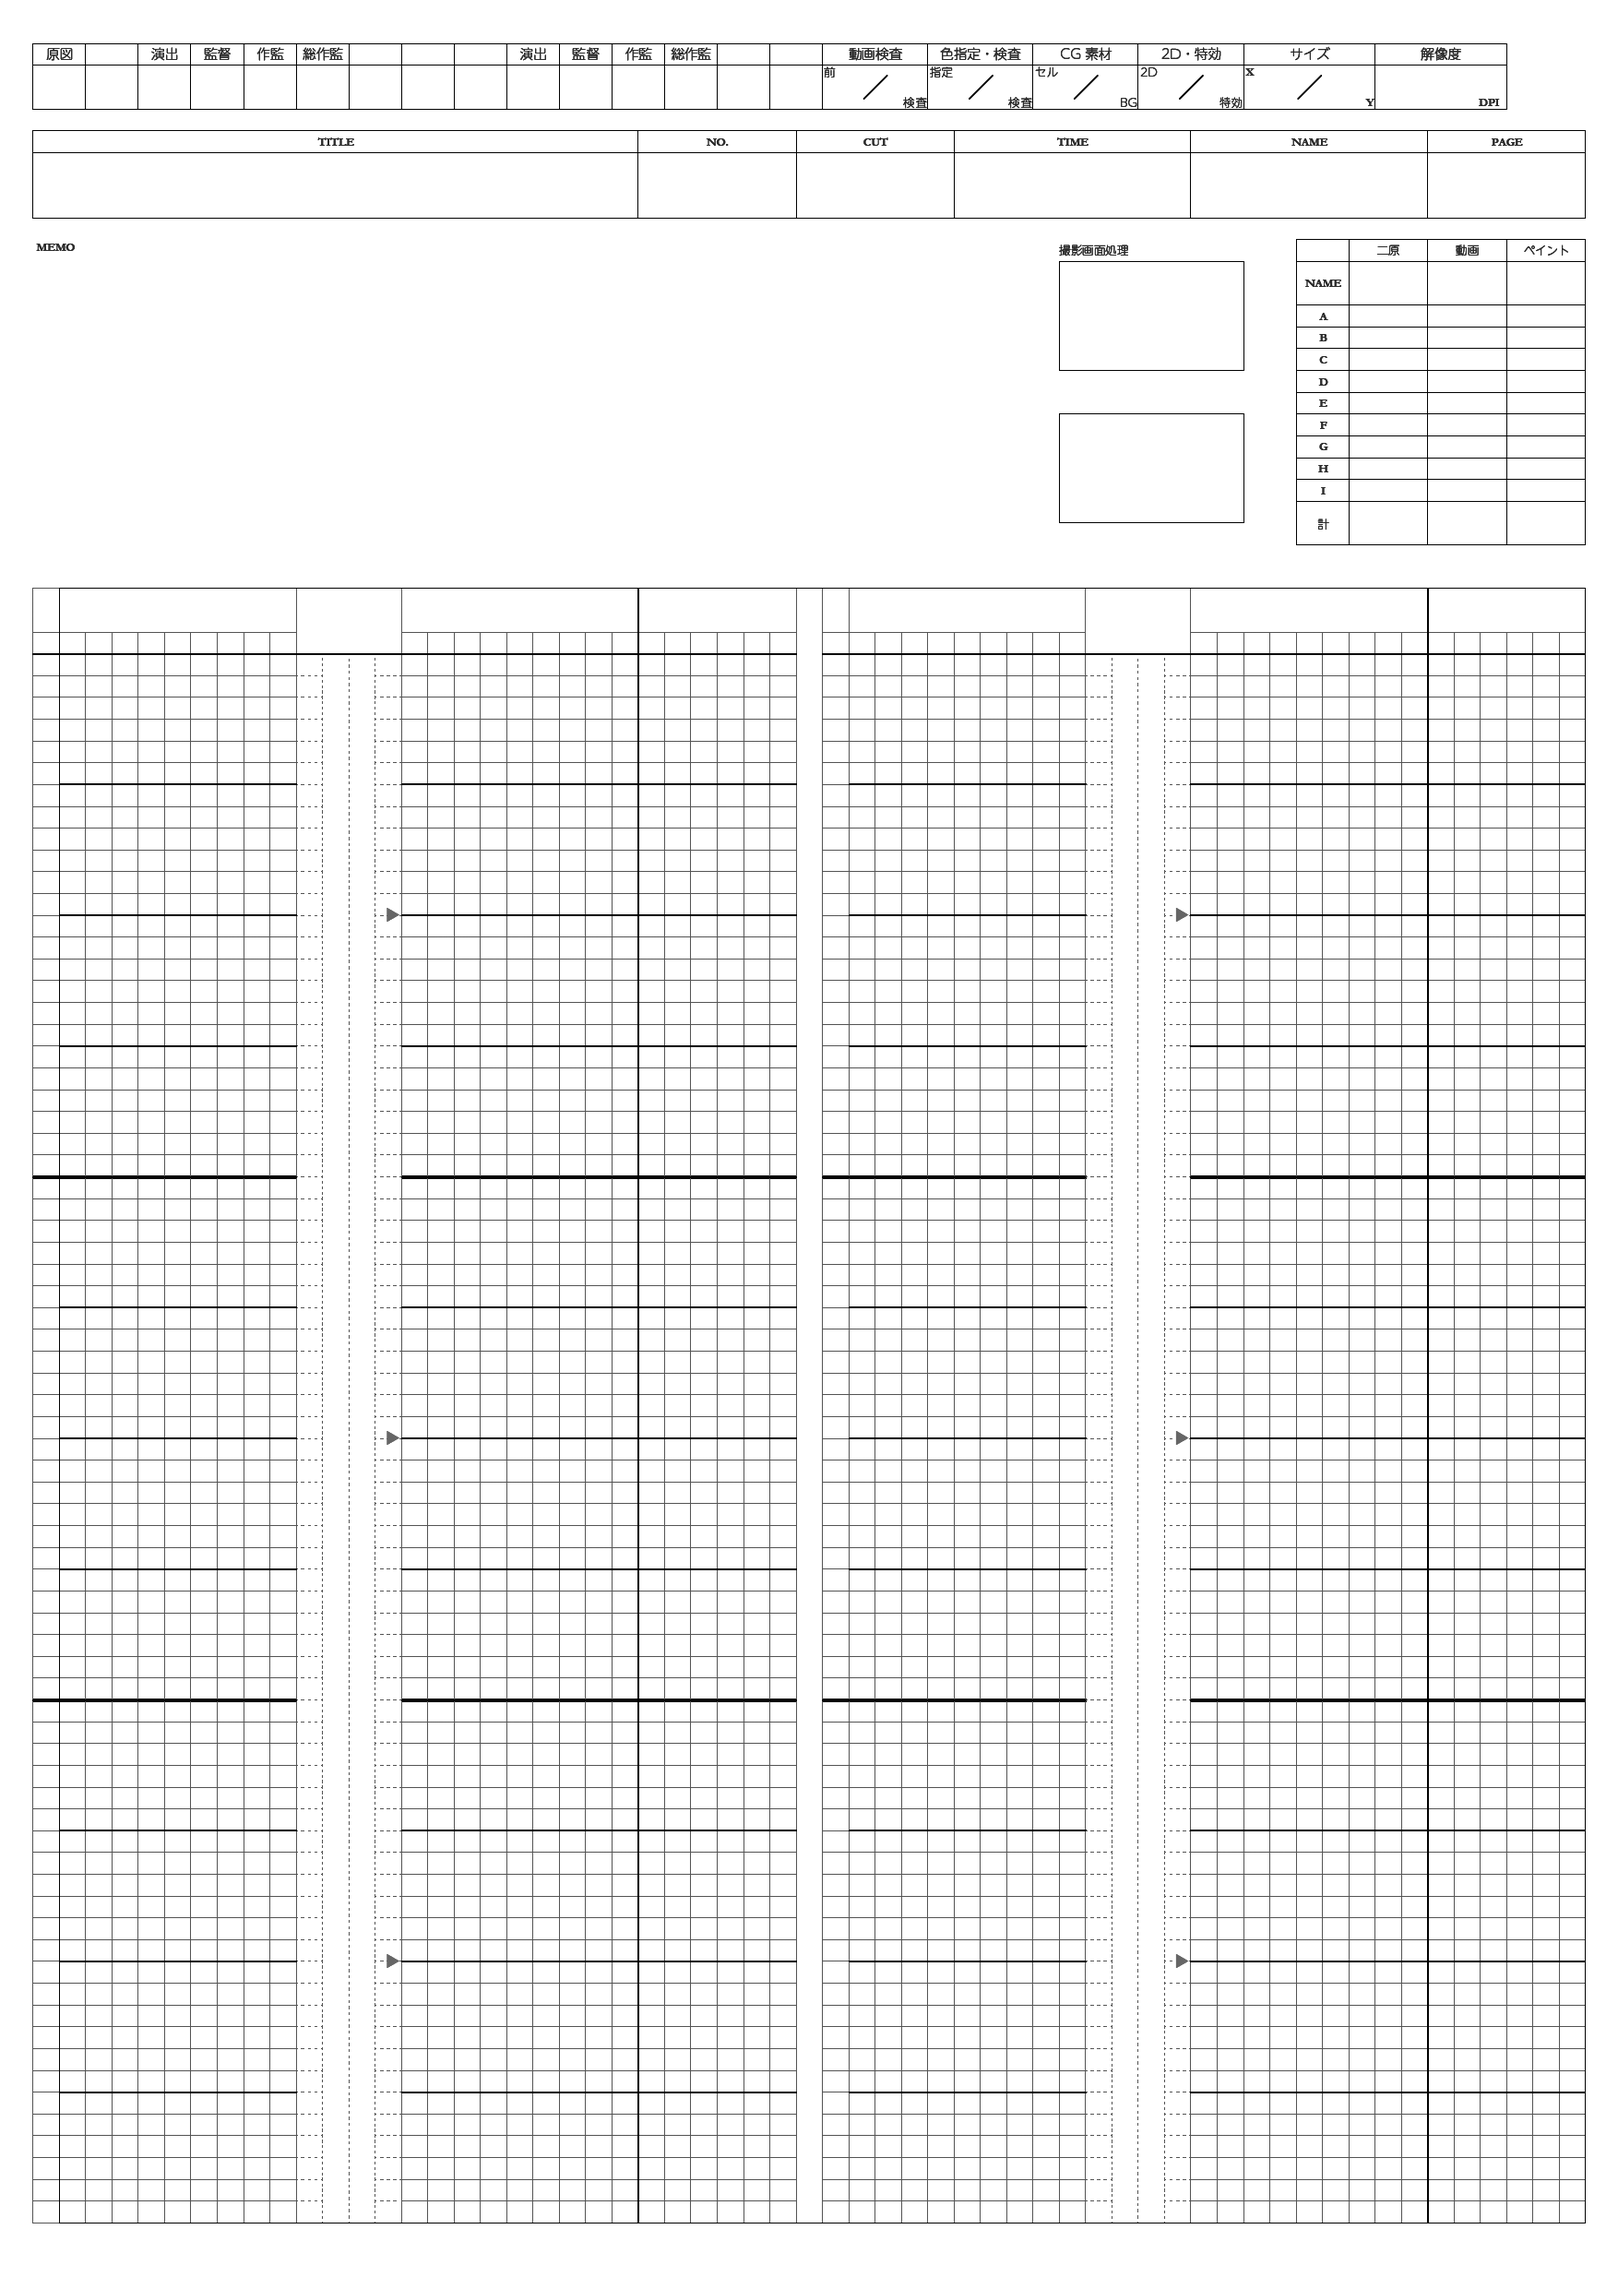
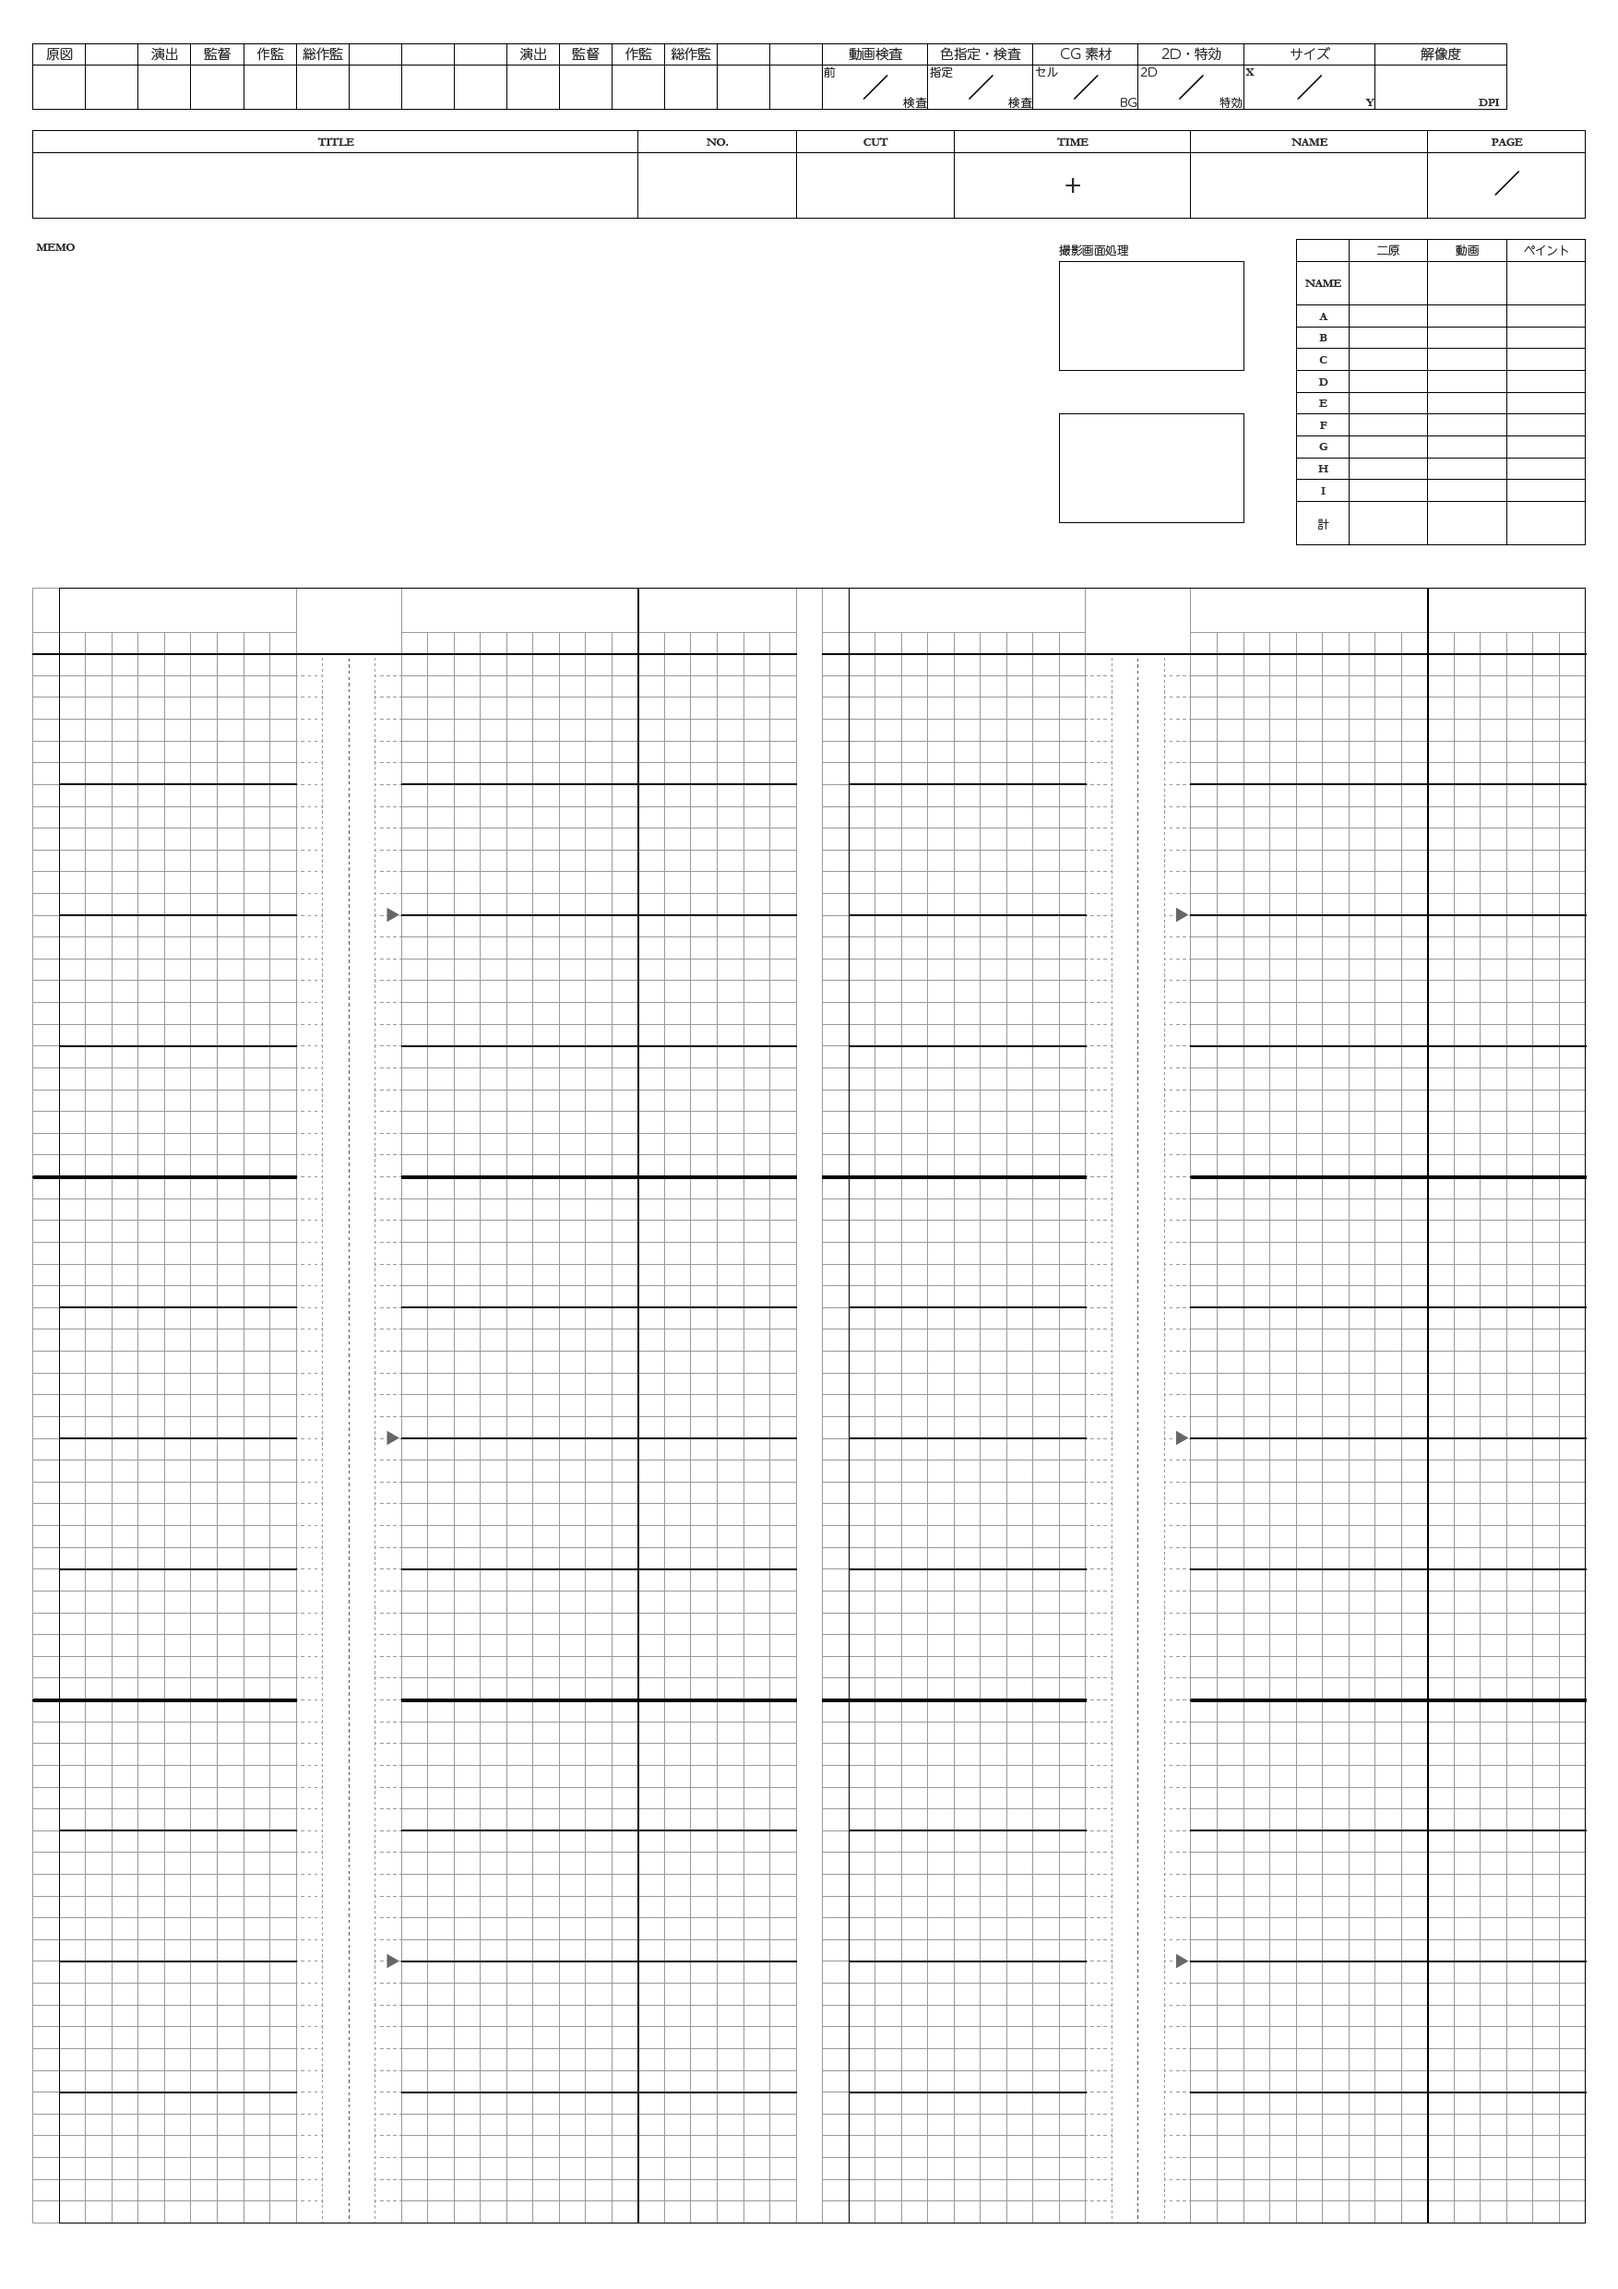
Replace the standard A3 timesheet and preserve thin rules during correction

diff --git a/packages/ui/src/sheet-precision-ink.ts b/packages/ui/src/sheet-precision-ink.ts
@@ -87,16 +87,18 @@ export function precisionGuideInk(
       hh,
     )
     const pixels = ctx!.getImageData(0, 0, w, hh).data
-    const gray = new Uint8Array(w * hh)
-    for (let i = 0; i < gray.length; i++) {
-      gray[i] = Math.round(pixels[4 * i] * 0.299 + pixels[4 * i + 1] * 0.587 + pixels[4 * i + 2] * 0.114)
+    // Measure ink before interpolation so a thin rule retains its signal between projected pixels.
+    const ink = new Uint8Array(w * hh)
+    for (let i = 0; i < ink.length; i++) {
+      const luminance = Math.round(pixels[4 * i] * 0.299 + pixels[4 * i + 1] * 0.587 + pixels[4 * i + 2] * 0.114)
+      ink[i] = Math.round(Math.max(0, Math.min(255, (205 - luminance) * 1.55)))
     }
     for (let y = top; y < bottom; y++) {
       const v = (y + 0.5) / height
       for (let x = left; x < right; x++) {
-        let light: number
+        let sample: number
         if (identity) {
-          light = gray[(y - y0) * w + x - x0]
+          sample = ink[(y - y0) * w + x - x0]
         } else {
           const u = (x + 0.5) / width,
             den = h[6] * u + h[7] * v + h[8]
@@ -112,11 +114,11 @@ export function precisionGuideInk(
           const k = iy * w + ix,
             n = iy * w + Math.min(w - 1, ix + 1),
             below = iy + 1 < hh ? w : 0
-          const upper = gray[k] + fx * (gray[n] - gray[k])
-          const lower = gray[k + below] + fx * (gray[n + below] - gray[k + below])
-          light = upper + fy * (lower - upper)
+          const upper = ink[k] + fx * (ink[n] - ink[k])
+          const lower = ink[k + below] + fx * (ink[n + below] - ink[k + below])
+          sample = upper + fy * (lower - upper)
         }
-        darkness[y * width + x] = Math.round(Math.max(0, Math.min(255, (205 - light) * 1.55)))
+        darkness[y * width + x] = Math.round(sample)
       }
     }
   }

diff --git a/tools/e2e/canvaskit/sheet-registration.spec.ts b/tools/e2e/canvaskit/sheet-registration.spec.ts
@@ -6,11 +6,14 @@ test('Remap registers an imported paper page through its calibration loupe', asy
   await page.getByLabel('表示設定', { exact: true }).click()
   await page.getByRole('button', { name: 'A3標準', exact: true }).click()
   await page.keyboard.press('Escape')
-  const asset = await page.request.get('./' + standardA3SheetTemplate.defaultUnderlay!.assetPath)
+  const underlay = standardA3SheetTemplate.defaultUnderlay!
+  const asset = await page.request.get('./' + underlay.assetPath)
   expect(asset.ok()).toBe(true)
+  const buffer = await asset.body()
+  expect(buffer.byteLength).toBe(underlay.imageRef.size)
   await page.locator('summary[aria-label="紙シート"]').click()
   const menu = page.locator('.paperSheetRailMenu.actionMenuPortalContent')
-  await menu.locator('input[type=file]').setInputFiles({ name: 'registered_sheet.png', mimeType: 'image/png', buffer: await asset.body() })
+  await menu.locator('input[type=file]').setInputFiles({ name: 'registered_sheet.png', mimeType: 'image/png', buffer })
   await expect(menu.getByRole('combobox', { name: '1ページの紙シート画像' })).toHaveValue(/.+/)
   await expect(menu.getByRole('option', { name: /registered_sheet.png/ })).toBeAttached()
   await menu.getByRole('button', { name: 'シート画像補正', exact: true }).click()

diff --git a/packages/core/src/sheet-template-presets.ts b/packages/core/src/sheet-template-presets.ts
@@ -214,7 +214,7 @@ export const standardA3DefaultUnderlay: SheetTemplateUnderlay = {
   assetPath: 'templates/standard-a3/timesheet.png',
   imageRef: {
     name: 'timesheet.png',
-    size: 153481,
+    size: 179070,
     assetPath: 'templates/standard-a3/timesheet.png',
     pixelWidth: STANDARD_A3_PAGE_WIDTH_PX,
     pixelHeight: STANDARD_A3_PAGE_HEIGHT_PX,

diff --git a/packages/ui/src/appVersion.ts b/packages/ui/src/appVersion.ts
@@ -1,2 +1,2 @@
 // Generated by tools/version/sync-version.mjs from VERSION_BASE, BUILD_NUMBER_OFFSET, and the Git commit count.
-export const APP_VERSION = '0.1.866'
+export const APP_VERSION = '0.1.867'
